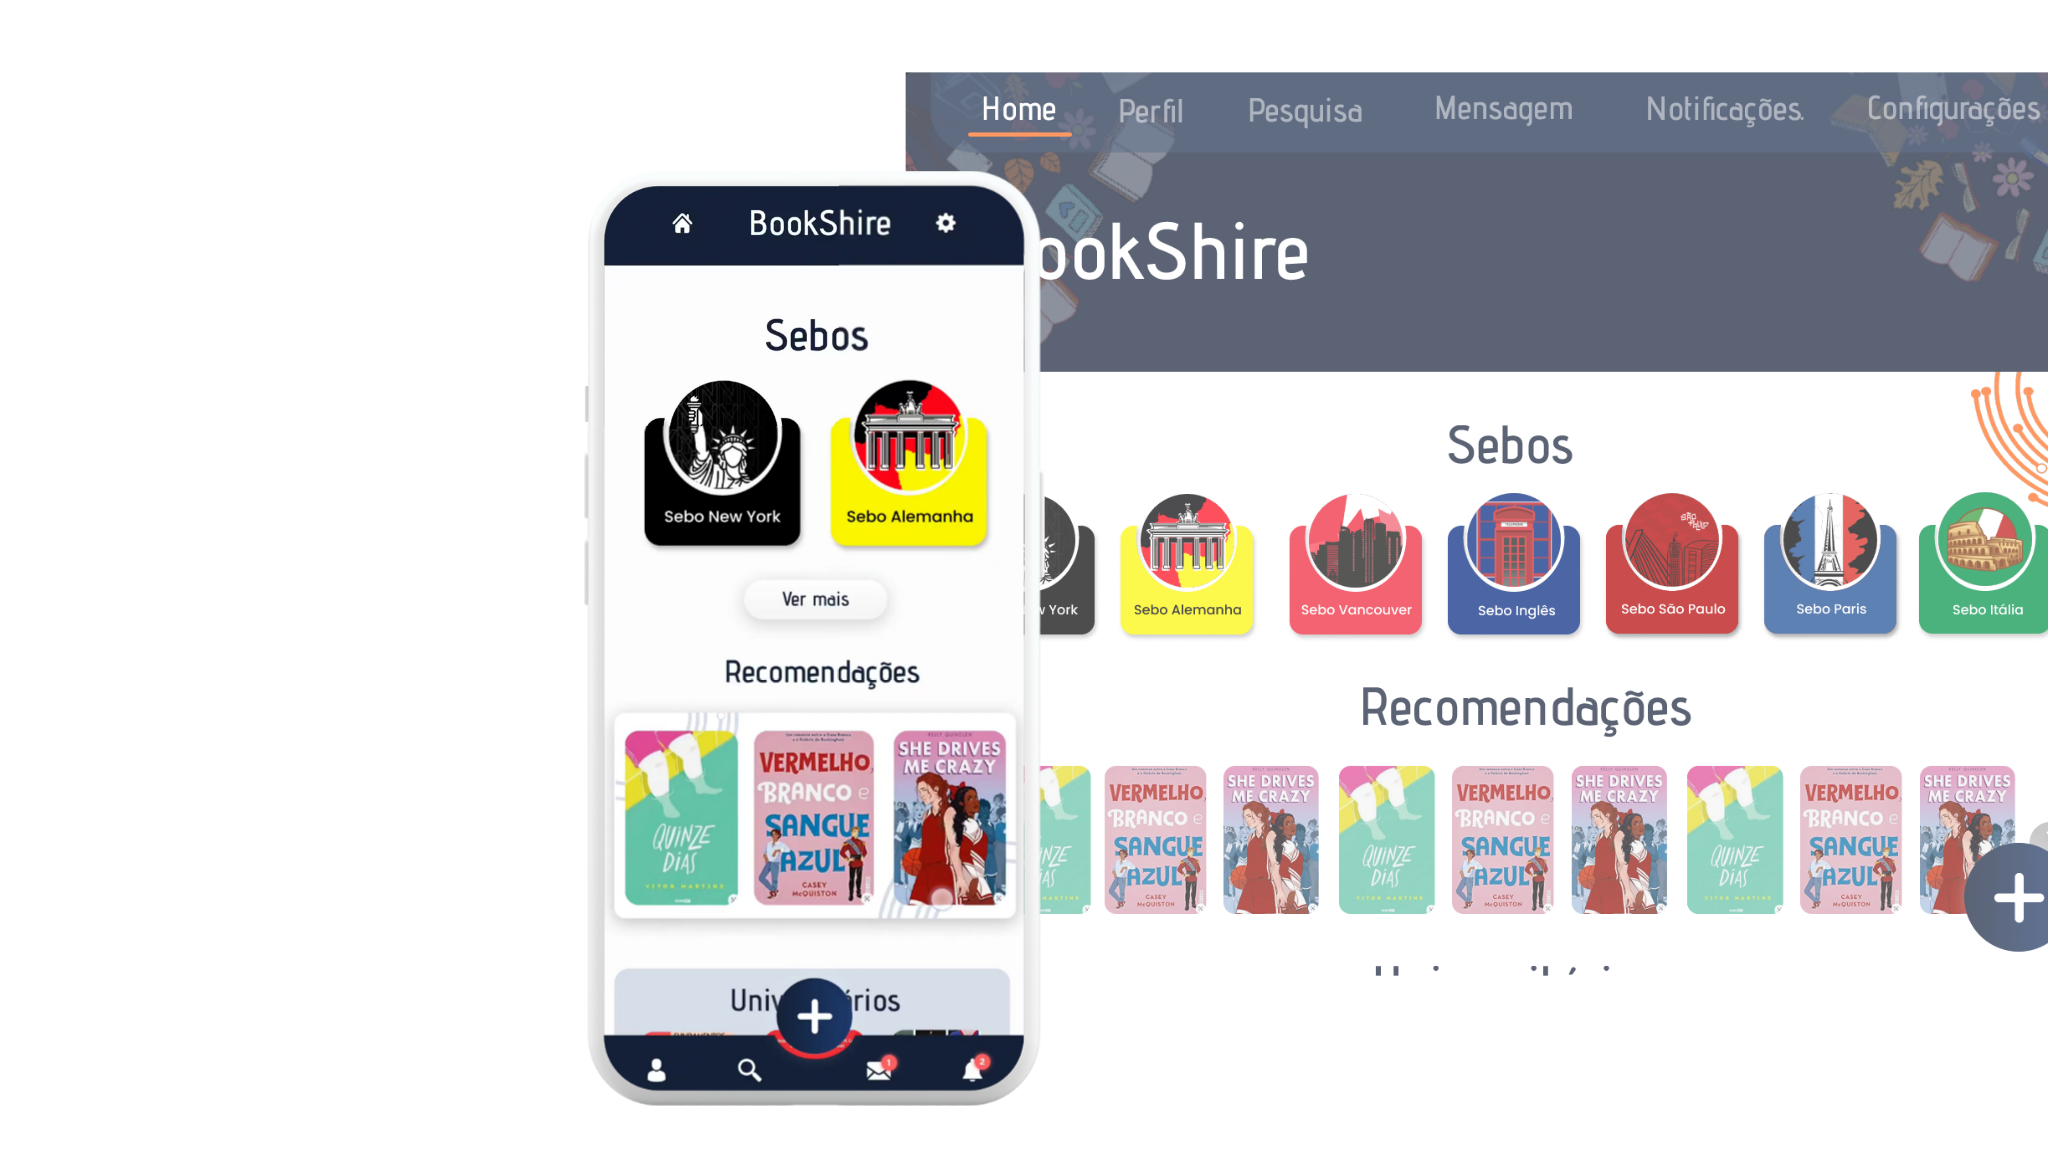
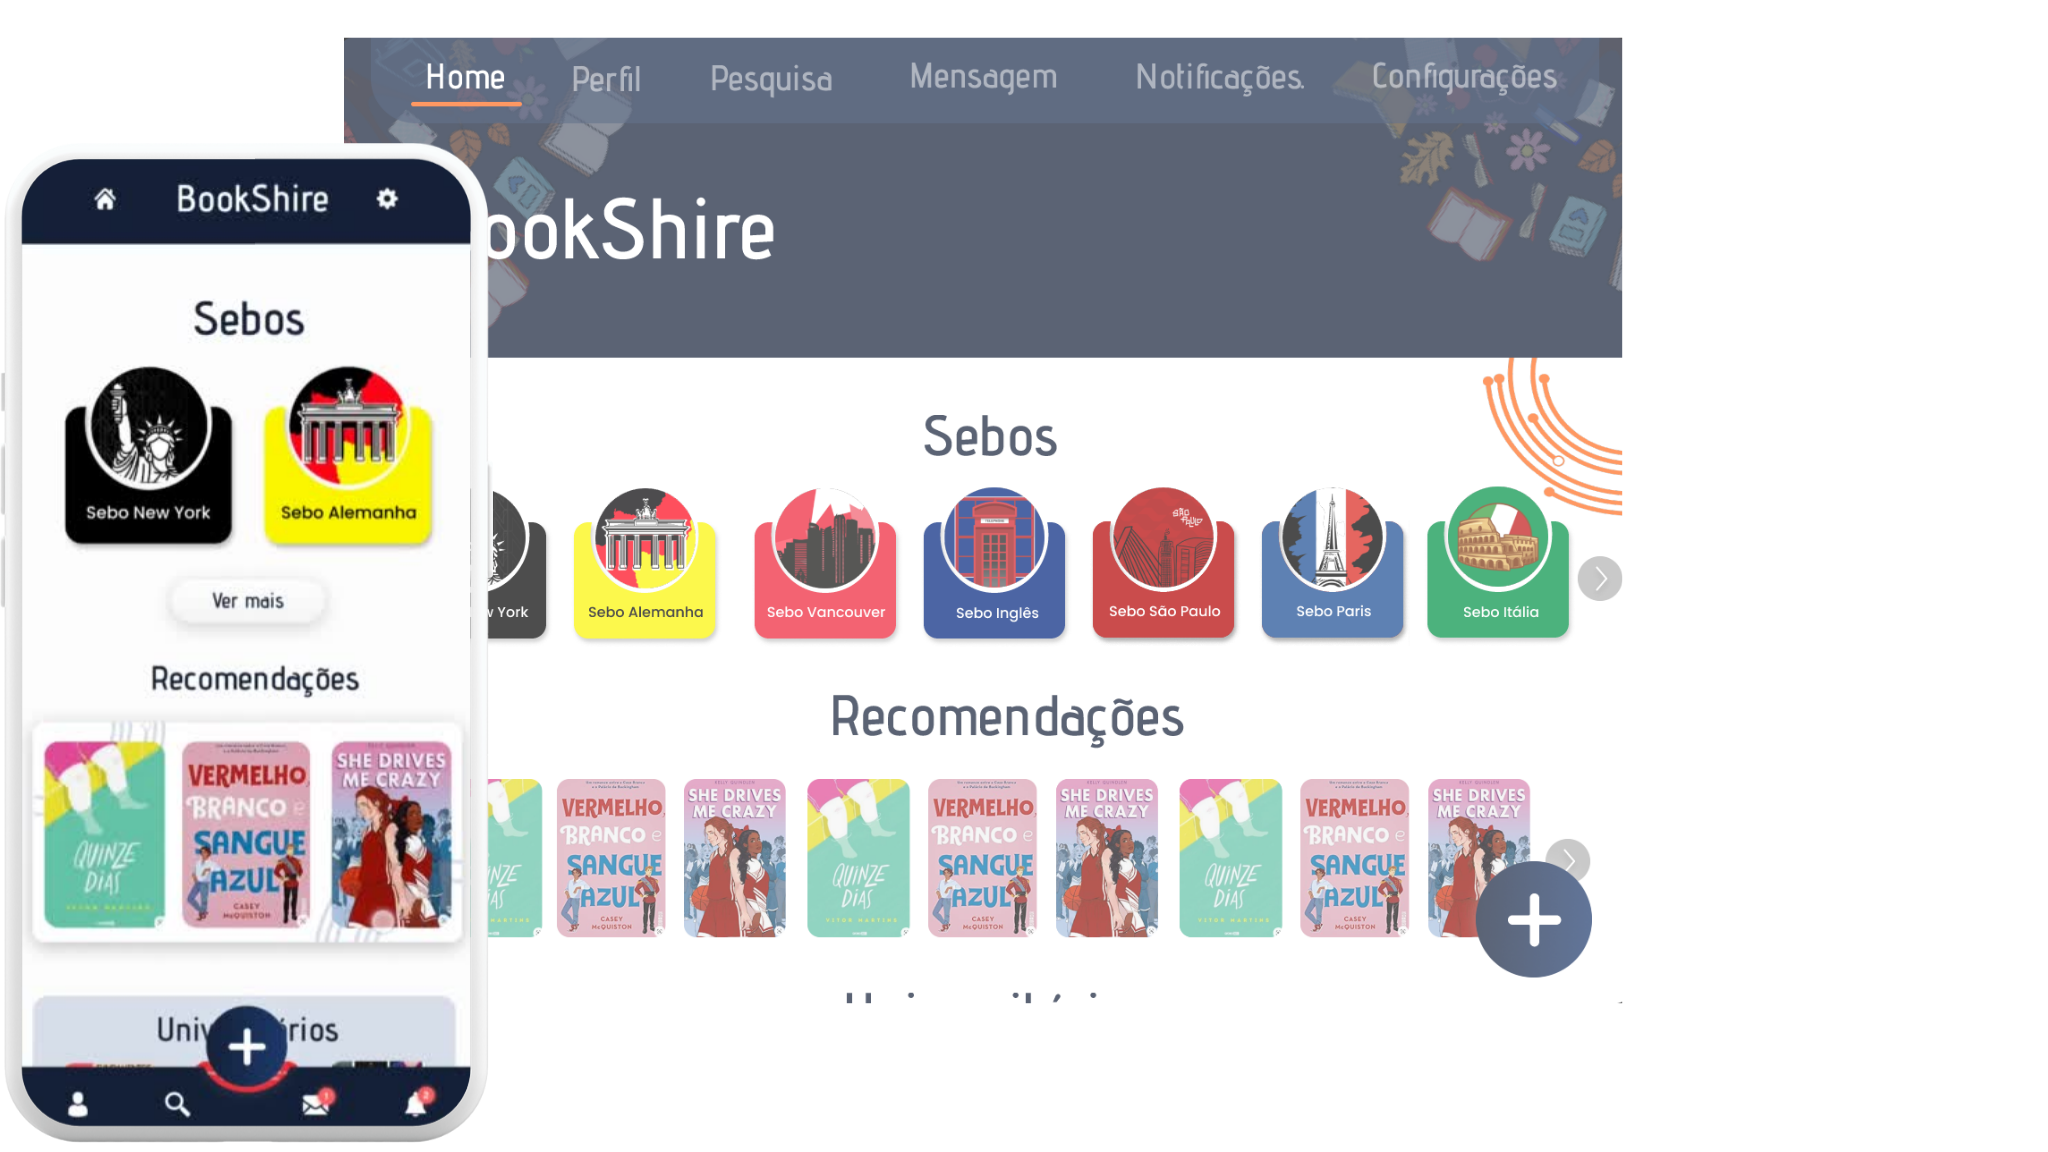
turning the visuals responsive

diff --git a/src/app/pages/home/home.component-responsive.css b/src/app/pages/home/home.component-responsive.css
@@ -1,0 +1,54 @@
+@media screen and (min-width:1400px) {
+    *{
+        background-color: green;
+    }
+}
+
+@media screen and (max-width:1115px){
+    .galeria__title > h1{ margin-top: 2.5rem; }
+    
+    .galeria__cards{ width: 90%; }
+
+    .desenvolvedoras__background{ padding-top: 200px;}
+
+    .desenvolvedoras__fotos{
+        width: auto;
+    }
+
+    #container__footer{ padding-top: 200px; }
+}
+
+@media screen and (max-width:800px){
+    .sobre__logo > img{
+        height: 75px;
+        width: 75px;
+        padding-bottom: 1rem;
+    }
+
+    .sobre__title > h2{ font-size: 40px; }
+
+    .sobre__content{ font-size: 18px; }
+
+    .galeria__background{ padding-bottom: 3rem;}
+
+    .desenvolvedoras__background{ padding-top: 9rem; }
+
+    .desenvolvedoras__fotos{
+        width: 75%;
+        row-gap: 25px;
+    }
+
+    #container__footer{ padding-top: 9rem; }
+}
+@media screen and (max-width:500px){}
+
+
+/* 
+@media screen and (min-width:1400px) {
+    *{
+        background-color: green;
+    }
+}
+@media screen and (max-width:1125px){}
+@media screen and (max-width:800px){}
+@media screen and (max-width:500px){} */

diff --git a/src/app/pages/home/home.component.html b/src/app/pages/home/home.component.html
@@ -44,7 +44,7 @@
 
                 <app-card-conquista
                     id="#"
-                title="Desafio Liga Jovem"
+                    title="Desafio Liga Jovem"
                     desc="Semi Finalistas"
                 ></app-card-conquista>
 
@@ -65,15 +65,15 @@
            <h1>Conheça as Desenvolvedoras</h1>
 
             <div class="desenvolvedoras__fotos">
-            <app-card-devs id = "1"></app-card-devs>
+                <app-card-devs id = "1"></app-card-devs>
 
-            <app-card-devs id = "2"></app-card-devs>
+                <app-card-devs id = "2"></app-card-devs>
 
-            <app-card-devs id = "3"></app-card-devs>
+                <app-card-devs id = "3"></app-card-devs>
 
-            <app-card-devs id = "4"></app-card-devs>
+                <app-card-devs id = "4"></app-card-devs>
 
-            <app-card-devs id = "5"></app-card-devs>
+                <app-card-devs id = "5"></app-card-devs>
 
             </div>
         </div>

diff --git a/src/app/pages/home/header/header.component-responsive.css b/src/app/pages/home/header/header.component-responsive.css
@@ -1,0 +1,44 @@
+@media screen and (min-width:1400px) {
+    *{
+        background-color: green;
+    }
+}
+@media screen and (max-width:1125px){
+    .home__texto{
+        width: 57%;
+        padding-left: 50px;
+    }
+
+    .texto__title > h1{ font-size: 60px; }
+
+    .texto__subs > p{ font-size: 20px; }
+
+    .home__prototipo{
+        width: 40%;
+        padding-left: 20px;
+    }
+
+    .home__prototipo > img{ height: 500px; }
+}
+@media screen and (max-width:800px){
+    .container__header{
+        flex-direction: column;
+    }
+
+    .home__texto{ width: 100%;}
+
+    .texto__title > h1{ font-size: 50px; }
+
+    .texto__subs > p{
+        font-size: 20px;
+        margin-top: 1rem;
+    }
+
+    .home__prototipo{
+        margin-top: 4rem;
+        width: 100%;
+    }
+
+    .home__prototipo > img{ height: 400px;}
+}
+@media screen and (max-width:500px){} 

diff --git a/src/app/pages/home/home.component.css b/src/app/pages/home/home.component.css
@@ -68,7 +68,7 @@
 }
 
 .galeria__title > h1{
-    margin-top: 5rem;
+    margin-top: 4rem;
     font-size: 45px;
     color: white;
 }
@@ -88,6 +88,7 @@
     display: flex;
     flex-direction: column;
     align-items: center;
+    justify-content: center;
     padding: 10px;
     padding-top: 300px;   
 }
@@ -98,19 +99,22 @@
 
 .desenvolvedoras__background > h1{
     color: white;
+    margin-bottom: 10px;
 }
 
-.desenvolvedoras__background .desenvolvedoras__fotos{
+.desenvolvedoras__fotos{
     display: flex;
-    flex-direction: row;
-    justify-content: space-between;
-    width: 75%;
+    flex-wrap: wrap;
+    justify-content: center;
+    column-gap: 20px;
+
+    min-width: 80%; 
     margin-top: 25px;
 }
 
 #container__footer{
     padding: 15px;
-    padding-top: 220px;
+    padding-top: 400px;
     background-color: #152139;
 
     color: white;

diff --git a/src/app/components/menu/menu.component-responsive.css b/src/app/components/menu/menu.component-responsive.css
@@ -1,0 +1,30 @@
+@media screen and (min-width:1400px) {
+    *{
+        background-color: green;
+    }
+}
+
+@media screen and (max-width:1125px){
+    .menu__container{ margin: 20px 60px; }
+
+    .menu__title > a > h1{ font-size: 35px; }
+    
+    .menu__title > a > img{
+        height:45px;
+        width:45px;
+    }
+}
+@media screen and (max-width:900px){
+    .menu__container{ margin: 15px 30px; }
+
+    .menu__title > a > h1{ font-size: 25px; }
+    .menu__sections > ul > li{margin-right: 10px;}
+    .menu__sections > ul > li > a{ font-size: 15px; }
+    
+    .menu__title > a > img{
+        height:35px;
+        width:35px;
+        margin-right: 10px;
+    }
+}
+@media screen and (max-width:500px){}

diff --git a/src/app/pages/home/card-conquista/card-conquista.component-responsive.css b/src/app/pages/home/card-conquista/card-conquista.component-responsive.css
@@ -1,0 +1,32 @@
+@media screen and (min-width:1400px) {
+    *{
+        background-color: green;
+    }
+}
+
+@media screen and (max-width:1060px){
+    .container__conquista{
+        width: 200px;
+        height: 275px;
+        padding: 15px;
+    }
+
+    .conquista__title { width: auto; }
+    .conquista__title > h1{ font-size: 30px; }
+    .conquista__desc > p{ font-size: 22px; }
+}
+
+@media screen and (max-width:800px){
+    .container__conquista{
+        width: 170px;
+        height:200px;
+        padding: 10px;
+    }
+
+    .conquista__desc{ width: auto; }
+
+    .conquista__title > h1{ font-size: 25px; }
+    .conquista__desc > p{ font-size: 20px; }
+}
+
+@media screen and (max-width:500px){}

diff --git a/src/app/pages/home/card-devs/card-devs.component-responsive.css b/src/app/pages/home/card-devs/card-devs.component-responsive.css
@@ -1,0 +1,32 @@
+@media screen and (min-width:1400px) {
+    *{
+        background-color: green;
+    }
+}
+@media screen and (max-width:1115px){
+    .card__container{
+        width: 150px;
+        height: 250px;
+    }
+
+    .card__pic > img{
+        height: 125px;
+        width: 125px;
+    }
+
+    .card__text > h1{ font-size: 18px; }
+
+    .card__text > p{ font-size: 15px; }
+
+    ul > li > img{
+        height: 15px;
+        width: 15px;
+    }
+}  
+
+@media screen and (max-width:800px){
+    /* .card__container{
+        flex-grow: 1;
+    } */
+}
+@media screen and (max-width:500px){} 

diff --git a/src/app/pages/home/card-conquista/card-conquista.component.ts b/src/app/pages/home/card-conquista/card-conquista.component.ts
@@ -3,7 +3,10 @@ import { Component, Input, OnInit } from '@angular/core';
 @Component({
   selector: 'app-card-conquista',
   templateUrl: './card-conquista.component.html',
-  styleUrls: ['./card-conquista.component.css']
+  styleUrls: [
+                './card-conquista.component.css',
+                './card-conquista.component-responsive.css'
+              ]
 })
 export class CardConquistaComponent implements OnInit {
 

diff --git a/src/app/pages/home/card-devs/card-devs.component.ts b/src/app/pages/home/card-devs/card-devs.component.ts
@@ -5,7 +5,10 @@ import {devData} from '../../../data/developers-data';
 @Component({
   selector: 'app-card-devs',
   templateUrl: './card-devs.component.html',
-  styleUrls: ['./card-devs.component.css']
+  styleUrls: [
+                './card-devs.component.css',
+                './card-devs.component-responsive.css'
+              ]
 })
 export class CardDevsComponent implements OnInit {
 

diff --git a/src/app/pages/home/header/header.component.ts b/src/app/pages/home/header/header.component.ts
@@ -3,7 +3,10 @@ import { Component, OnInit } from '@angular/core';
 @Component({
   selector: 'app-header',
   templateUrl: './header.component.html',
-  styleUrls: ['./header.component.css']
+  styleUrls: [
+                './header.component.css',
+                './header.component-responsive.css'
+              ]
 })
 export class HeaderComponent implements OnInit {
 

diff --git a/src/app/components/menu/menu.component.ts b/src/app/components/menu/menu.component.ts
@@ -3,7 +3,10 @@ import { Component, OnInit } from '@angular/core';
 @Component({
   selector: 'app-menu',
   templateUrl: './menu.component.html',
-  styleUrls: ['./menu.component.css']
+  styleUrls: [
+                './menu.component.css',
+                './menu.component-responsive.css'
+              ]
 })
 export class MenuComponent implements OnInit {
 

diff --git a/src/app/pages/home/home.component.ts b/src/app/pages/home/home.component.ts
@@ -3,7 +3,10 @@ import { Component, OnInit } from '@angular/core';
 @Component({
   selector: 'app-home',
   templateUrl: './home.component.html',
-  styleUrls: ['./home.component.css']
+  styleUrls: [
+                './home.component.css',
+                './home.component-responsive.css'
+              ]
 })
 export class HomeComponent implements OnInit {
 
